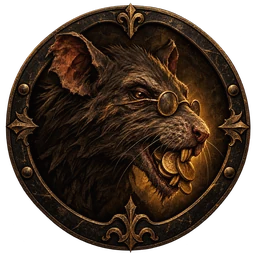
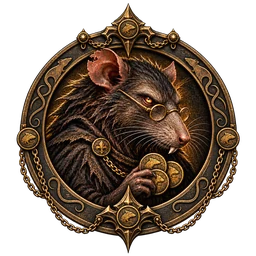
Final art pack: Wolf deck, Crow upgrades, neutrals, card back, backgrounds
Twenty hand-drawn card covers (the whole Wolf deck, four Crow upgrades,
Gold, Debt Writ, Bewilderment), the Wolf emblem and a new Rat emblem.
The painted card back replaces the CSS one on the opponent's hand and in
flight; the table and menu get painted backdrops (portrait and landscape),
dimmed, with the frames over them made slightly see-through. The CSS
drawings stay underneath as the fallback.

Claude-Session: https://claude.ai/code/session_019EuKNL5fsUDstDgnsf2WUR

diff --git a/src/style.css b/src/style.css
@@ -49,6 +49,36 @@ body {
     var(--bg);
   background-attachment: fixed;
   overscroll-behavior: none;
+  /* lets the backdrop below sit over the body's own background but under everything else */
+  isolation: isolate;
+}
+/* hand-drawn backdrops over the gradient above, dimmed so text and cards stay readable */
+body::before {
+  content: '';
+  position: fixed;
+  inset: 0;
+  z-index: -1;
+  pointer-events: none;
+  background:
+    linear-gradient(#0000002e, #00000066),
+    url('./assets/bg/bg_menu_portrait.webp') center / cover no-repeat;
+}
+body:has(.game)::before {
+  background:
+    linear-gradient(#00000059, #00000059),
+    url('./assets/bg/bg_game_portrait.webp') center / cover no-repeat;
+}
+@media (min-aspect-ratio: 1/1) {
+  body::before {
+    background:
+      linear-gradient(#0000002e, #00000066),
+      url('./assets/bg/bg_menu_landscape.webp') center / cover no-repeat;
+  }
+  body:has(.game)::before {
+    background:
+      linear-gradient(#00000059, #00000059),
+      url('./assets/bg/bg_game_landscape.webp') center / cover no-repeat;
+  }
 }
 
 /* only the generated pixel art (data: URLs); hand-drawn files scale smoothly */
@@ -618,7 +648,8 @@ input {
   flex-direction: column;
   padding: 3px 6px;
   border-radius: 10px;
-  background: #0a140e;
+  /* see-through, so the painted table shows under the frames */
+  background: #0a140eb8;
   border: 1px solid var(--line);
   overflow: hidden;
 }
@@ -759,7 +790,8 @@ input {
   justify-content: center;
   padding: 5px 6px;
   border-radius: 10px;
-  background: #0a140e;
+  /* see-through, so the painted table shows under the frames */
+  background: #0a140eb8;
   border: 1px solid var(--line);
   overflow: hidden;
   isolation: isolate;
@@ -871,7 +903,7 @@ input {
   display: flex;
   flex-direction: column;
   justify-content: center;
-  background: linear-gradient(180deg, #14110a, #0c0d08);
+  background: linear-gradient(180deg, #14110ad0, #0c0d08d0);
   border: 1px solid #4a3d22;
   border-radius: 10px;
   padding: 6px;
@@ -1151,9 +1183,10 @@ input {
   width: 38px;
   height: 54px;
   margin-left: -19px;
-  border: 2px solid #6e3a2a;
+  border: 1px solid #6b5a2c;
   border-radius: 5px;
   background:
+    url('./assets/ui/card_back.webp') center / cover,
     radial-gradient(circle at 50% 70%, #5a1d1d 0 9px, transparent 10px),
     repeating-linear-gradient(45deg, #2a1414 0 4px, #170909 4px 8px);
   box-shadow: 0 2px 4px #000c;
@@ -2135,13 +2168,19 @@ button.toggle[aria-pressed='true'] b {
   translate: none !important;
   scale: none !important;
 }
+/* the ✠ was the mark of the drawn back; the painted back has its own eye */
+.back > span,
+.gh-back > span {
+  visibility: hidden;
+}
 .gh-turned {
   transform: rotateY(180deg);
 }
 .gh-back {
-  border: 2px solid #6e3a2a;
+  border: 1px solid #6b5a2c;
   border-radius: 6px;
   background:
+    url('./assets/ui/card_back.webp') center / cover,
     radial-gradient(circle at 50% 60%, #5a1d1d 0 22%, transparent 24%),
     repeating-linear-gradient(45deg, #2a1414 0 4px, #170909 4px 8px);
   display: grid;

diff --git a/src/art/custom.ts b/src/art/custom.ts
@@ -8,6 +8,8 @@ const byName = (files: Record<string, string>) =>
 
 const CARDS = byName(import.meta.glob<string>('../assets/cards/*.webp', { eager: true, query: '?url', import: 'default' }));
 const PATRONS = byName(import.meta.glob<string>('../assets/patrons/*.webp', { eager: true, query: '?url', import: 'default' }));
+/** The card back and the backdrops, used from style.css; listed here only to be fetched early. */
+const SCENERY = import.meta.glob<string>(['../assets/ui/*.webp', '../assets/bg/*.webp'], { eager: true, query: '?url', import: 'default' });
 
 export const customCardArt = (cardId: string): string | undefined => CARDS[cardId];
 export const customEmblem = (patronId: string): string | undefined => PATRONS[patronId];
@@ -18,7 +20,7 @@ export const customEmblem = (patronId: string): string | undefined => PATRONS[pa
  */
 const held: HTMLImageElement[] = [];
 export function preloadCustomArt(): void {
-  for (const url of [...Object.values(CARDS), ...Object.values(PATRONS)]) {
+  for (const url of [...Object.values(SCENERY), ...Object.values(CARDS), ...Object.values(PATRONS)]) {
     const img = new Image();
     img.src = url;
     img.decode().catch(() => {});

diff --git a/README.md b/README.md
@@ -55,7 +55,8 @@ npm run build      # сборка в dist/
 1. Сложите картинки колоды в одну папку. Карта называется так же, как в игре (`Удар когтем.png`), эмблема называется `Эмблема покровителя <Имя>.png` (`Эмблема покровителя Ворон.png`). Регистр и ё/е не важны, имя можно заменить на id (`crows_scratch.png`). Карты квадратные, от 512×512, без рамки и текста. Эмблема — круглый медальон на прозрачном или сплошном чёрном фоне.
 2. Запустите `python3 scripts/import-art.py "<папка>"` (нужен Pillow: `python3 -m pip install pillow`). Скрипт кладёт карты в `src/assets/cards/<id>.webp` 512×512, а эмблему в `src/assets/patrons/<id>.webp` 256×256. Чёрный фон эмблемы он делает прозрачным, а медальон вписывает в круг. В конце печатает файлы без пары (`NO MATCH`) и карты колоды, у которых ещё нет арта.
 3. Больше ничего менять не нужно: игра находит файлы по имени и загружает их при старте, ещё в меню. Карты без файла остаются с пиксель-артом.
-4. Проверьте, что стол помещается в экран без прокрутки на iPhone SE, iPhone 13, Pixel 7 и в альбомной ориентации.
+4. Рубашка карты и фоны лежат отдельно и подключены в `src/style.css`: `src/assets/ui/card_back.webp` (360×512) и `src/assets/bg/bg_game_portrait|landscape.webp`, `bg_menu_portrait|landscape.webp`. Новую картинку кладут под тем же именем; если файла не будет, остаются фоны и рубашка, нарисованные в CSS.
+5. Проверьте, что стол помещается в экран без прокрутки на iPhone SE, iPhone 13, Pixel 7 и в альбомной ориентации.
 
 ## Деплой
 
